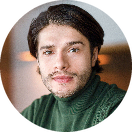
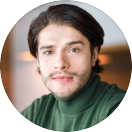
«Дорогое время»: зачёркивания и пузыри в блоке «Вам не придётся», аватары из макета

diff --git a/vremya/index.html b/vremya/index.html
@@ -90,7 +90,12 @@ button { font: inherit; color: inherit; background: none; border: 0; cursor: poi
   padding: 24px 24px 40px; display: flex; flex-direction: column; gap: 32px;
 }
 .cards { display: flex; flex-direction: column; gap: 4px; }
-.bcard { background: #fff; border-radius: 32px; padding: 24px; display: flex; flex-direction: column; gap: 4px; }
+.benefits { position: relative; }
+.bcard { position: relative; background: #fff; border-radius: 32px; padding: 24px; display: flex; flex-direction: column; gap: 4px; }
+/* зачёркивания заголовков — отдельные слои в макете (187:7195–7197), прозрачность 80% */
+.bcard .strike { position: absolute; z-index: 2; max-width: none; pointer-events: none; }  /* прозрачность 80% уже в выгрузке из Figma */
+.benefits .bub { position: absolute; z-index: 3; max-width: none; pointer-events: none; }
+.benefits .bub.dodge { mix-blend-mode: color-dodge; }
 .benefits .after { text-align: center; }
 
 /* Три шага */
@@ -179,10 +184,13 @@ button { font: inherit; color: inherit; background: none; border: 0; cursor: poi
 
   <section class="benefits" data-section="benefits">
     <h2 class="sf22">Вам не придётся</h2>
+    <!-- пузыри поверх блока: в макете это отдельные слои над лендингом (251:656 и группа 187:7198 с наложением Color Dodge) -->
+    <img class="bub" src="img/bubble-1.png" alt="" style="right:53px;top:54px;width:52px;height:51px">
+    <img class="bub dodge" src="img/bubbles-group.png" alt="" style="right:6px;top:248px;width:160px;height:352px">
     <div class="cards">
-      <div class="bcard" data-track="benefit_listing"><p class="ony22m">Листать объявления и&nbsp;отзывы</p><p class="sf17">Найдём мастера с опытом в&nbsp;ремонте стиральных машин и&nbsp;рейтингом не&nbsp;ниже&nbsp;4,8</p></div>
-      <div class="bcard" data-track="benefit_calls"><p class="ony22m">Звонить и&nbsp;договариваться</p><p class="sf17">Убедимся, что мастер сможет помочь в удобное для вас время</p></div>
-      <div class="bcard" data-track="benefit_unknown"><p class="ony22m">Быть в&nbsp;неизвестности</p><p class="sf17">Покажем отзывы и анкету выбранного специалиста, чтобы вы знали, кто приедет</p></div>
+      <div class="bcard" data-track="benefit_listing"><img class="strike" src="img/strike-1.png" alt="" style="left:40px;top:3px;width:205px;height:77.3px"><p class="ony22m">Листать объявления и&nbsp;отзывы</p><p class="sf17">Найдём мастера с опытом в&nbsp;ремонте стиральных машин и&nbsp;рейтингом не&nbsp;ниже&nbsp;4,8</p></div>
+      <div class="bcard" data-track="benefit_calls"><img class="strike" src="img/strike-2.png" alt="" style="left:62px;top:15px;width:206.3px;height:44.3px"><p class="ony22m">Звонить и&nbsp;договариваться</p><p class="sf17">Убедимся, что мастер сможет помочь в удобное для вас время</p></div>
+      <div class="bcard" data-track="benefit_unknown"><img class="strike" src="img/strike-3.png" alt="" style="left:58px;top:8px;width:205.7px;height:59px"><p class="ony22m">Быть в&nbsp;неизвестности</p><p class="sf17">Покажем отзывы и анкету выбранного специалиста, чтобы вы знали, кто приедет</p></div>
     </div>
     <p class="after ony17">Вы пообщаетесь и встретитесь только&nbsp;с&nbsp;одним мастером. <br>Профи.ру подберёт для вас самого подходящего, и он с вами свяжется</p>
     <div class="btn-wrap"><a class="btn js-cta" href="#" data-track="cta_benefits">Вызвать мастера</a></div>
